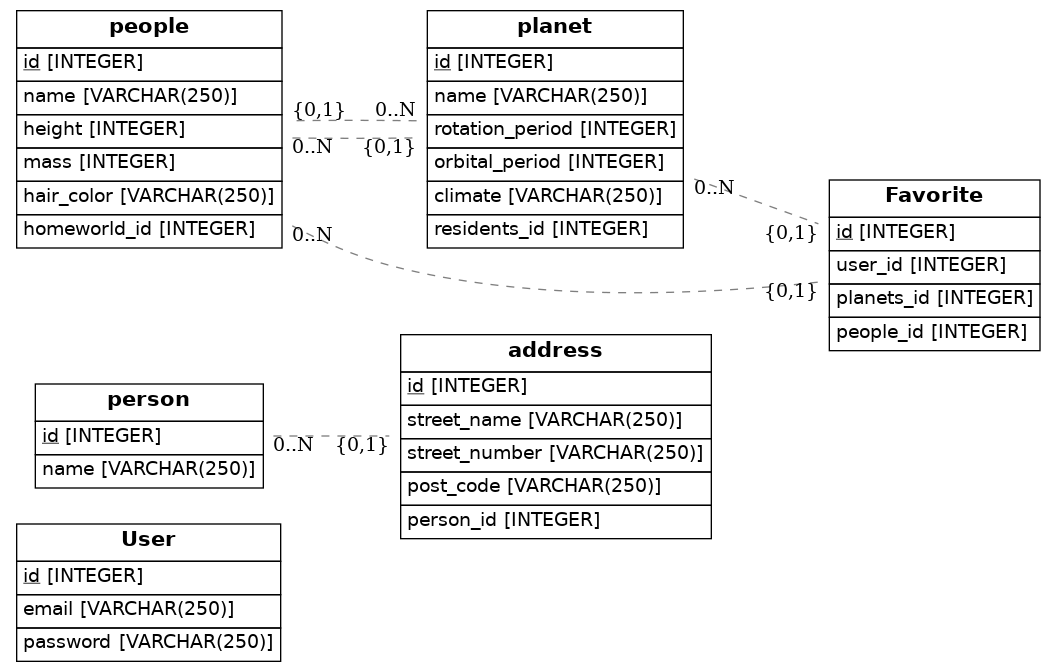
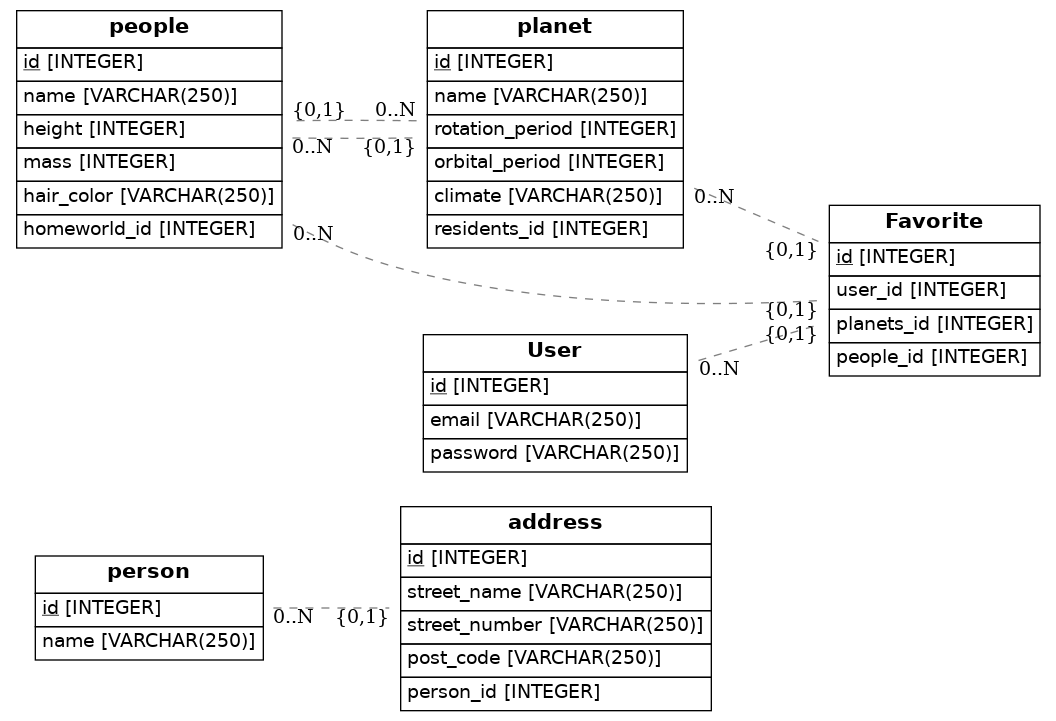
fixed user/favorite relationship

diff --git a/src/models.py b/src/models.py
@@ -57,12 +57,14 @@ class User(Base):
 class Favorite(Base):
     __tablename__ = 'Favorite'
     id = Column(Integer, primary_key=True)
-    user_id = Column(Integer, ForeignKey('user.id'))
+    user_id = Column(Integer, ForeignKey('User.id'))
     planets_id = Column(Integer, ForeignKey('planet.id'))
     people_id = Column(Integer, ForeignKey('people.id'))
     user = relationship(User)
     planet = relationship(Planet)
     people = relationship(People)
+
+
 
 
 
